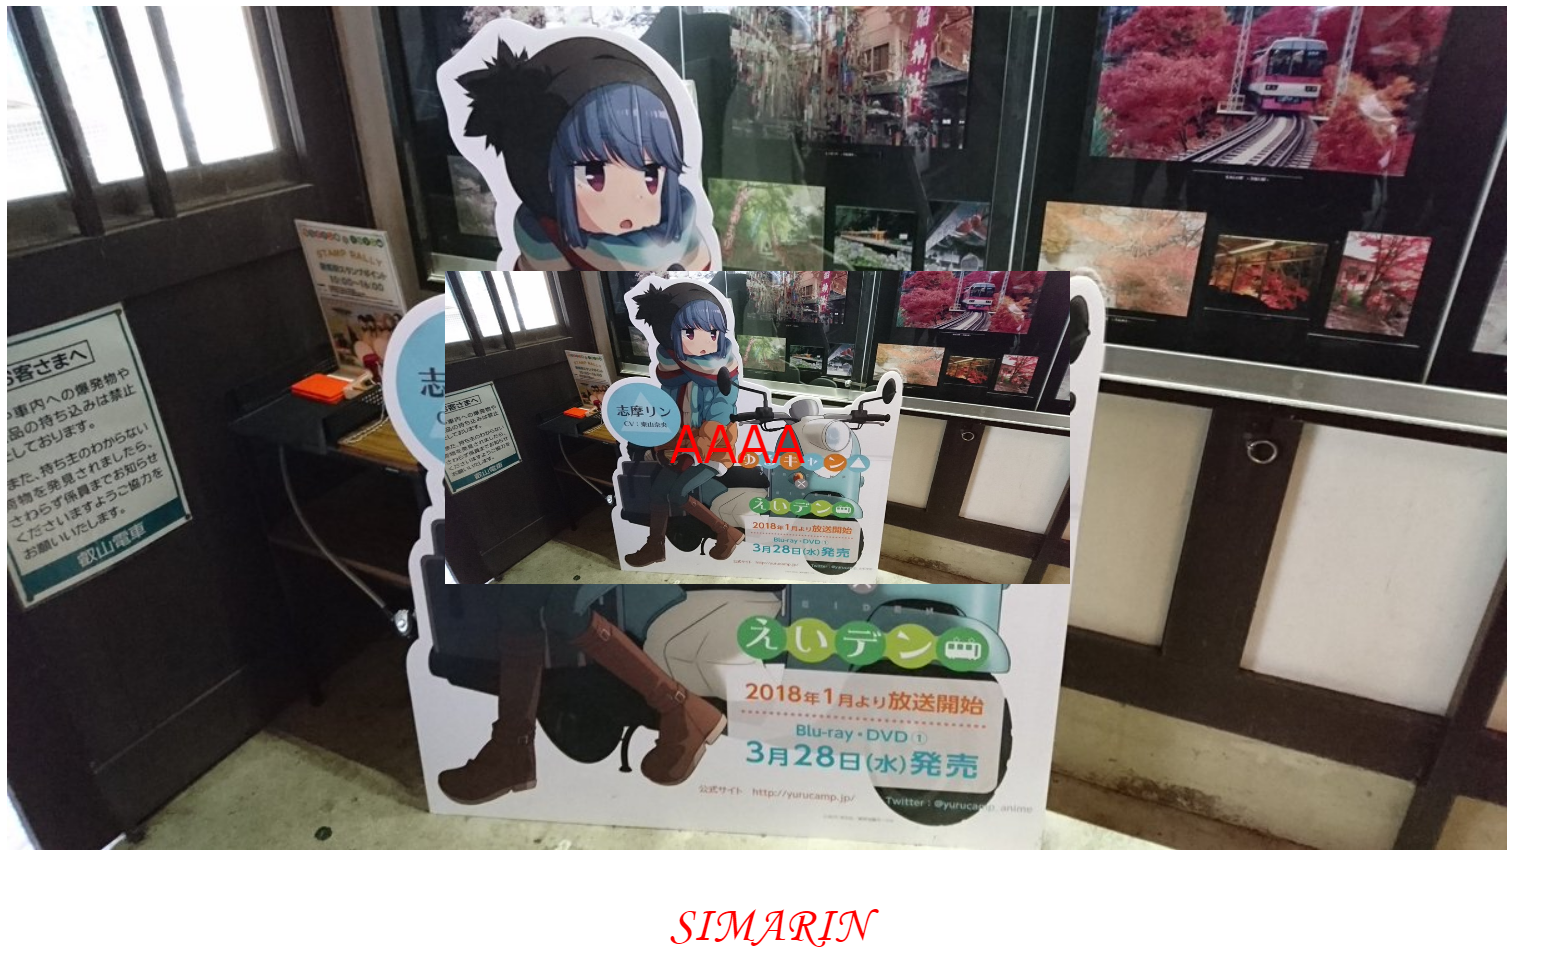
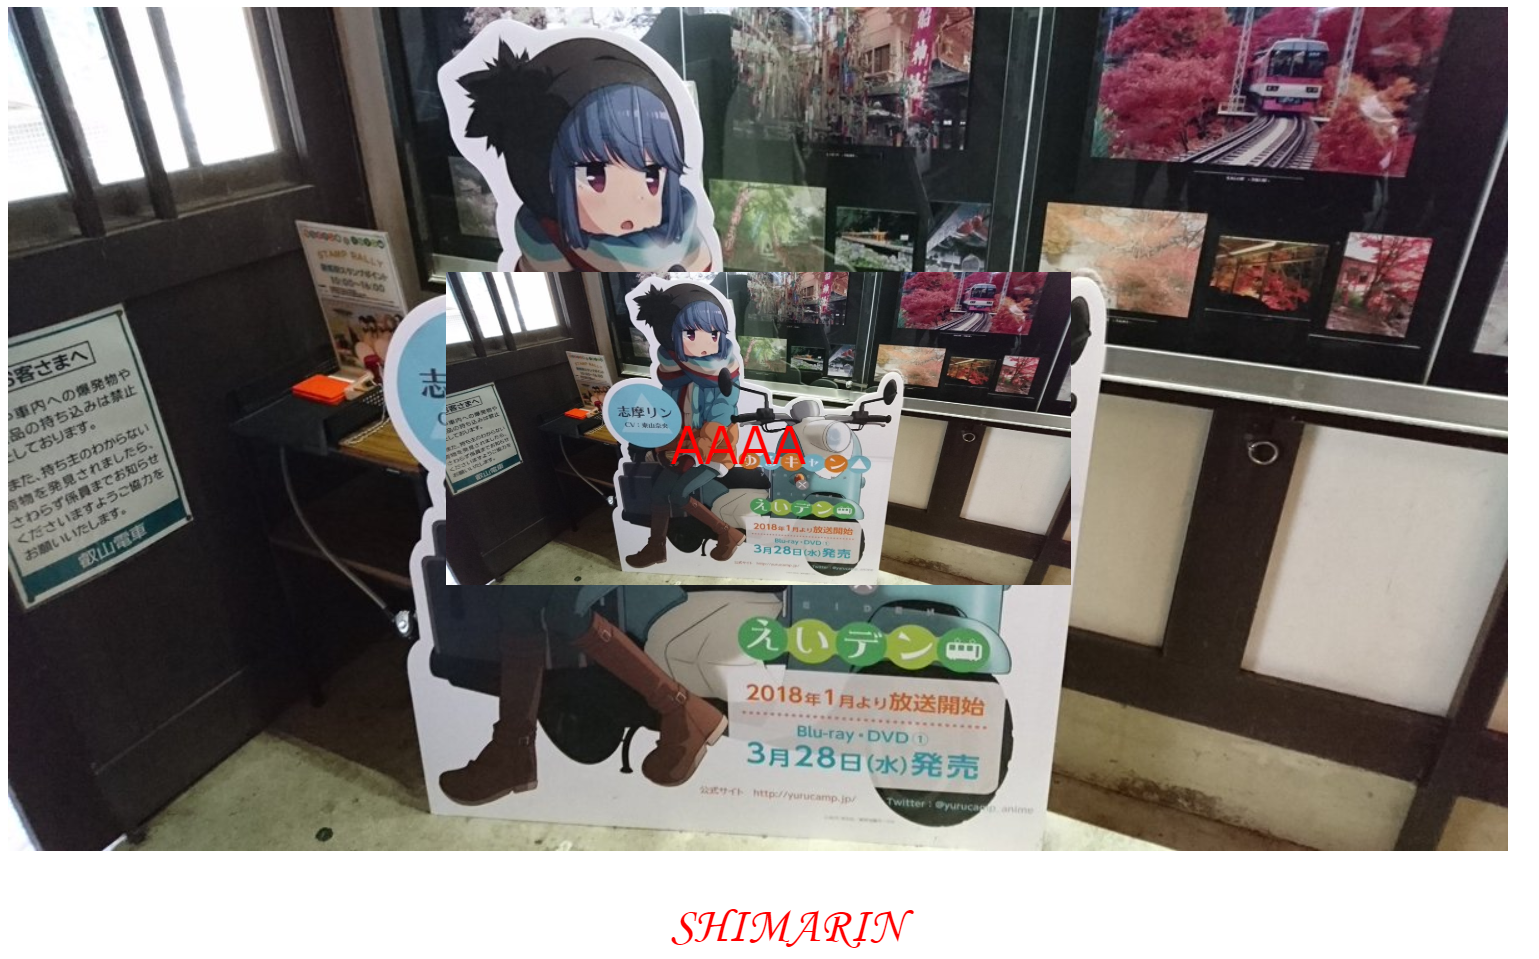
onImage微修正

diff --git a/answer/example/CSS/04_onImage/onImage.html b/answer/example/CSS/04_onImage/onImage.html
@@ -16,7 +16,7 @@
         <p>AAAA</p>
     </div>
     <div id="title">
-        <p>SIMARIN</p>
+        <p>SHIMARIN</p>
     </div>
 </body>
 
